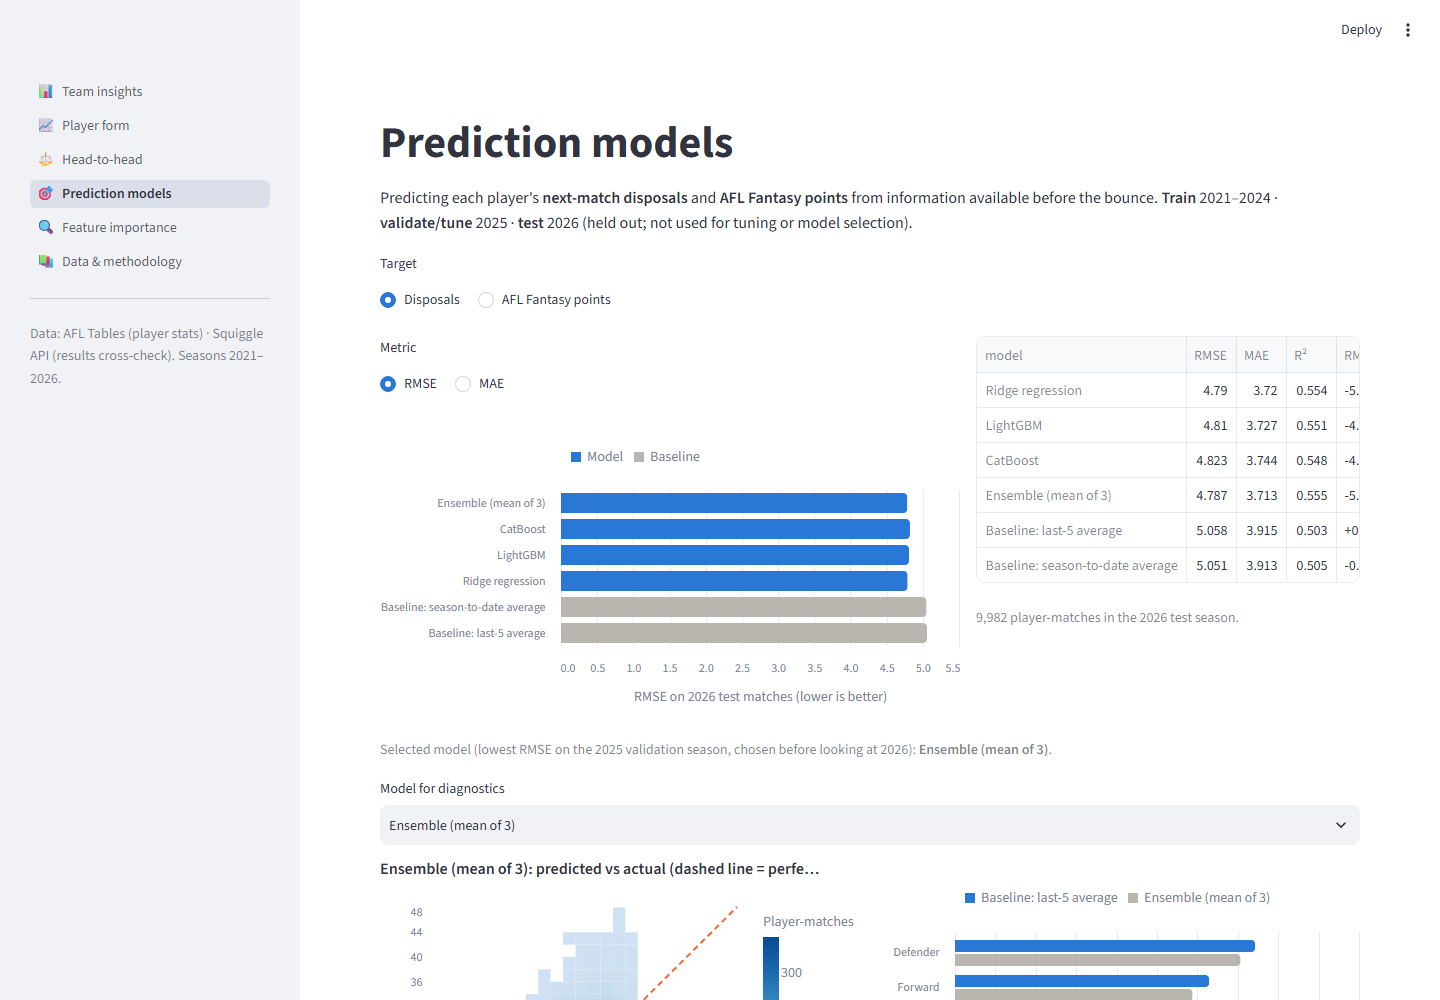
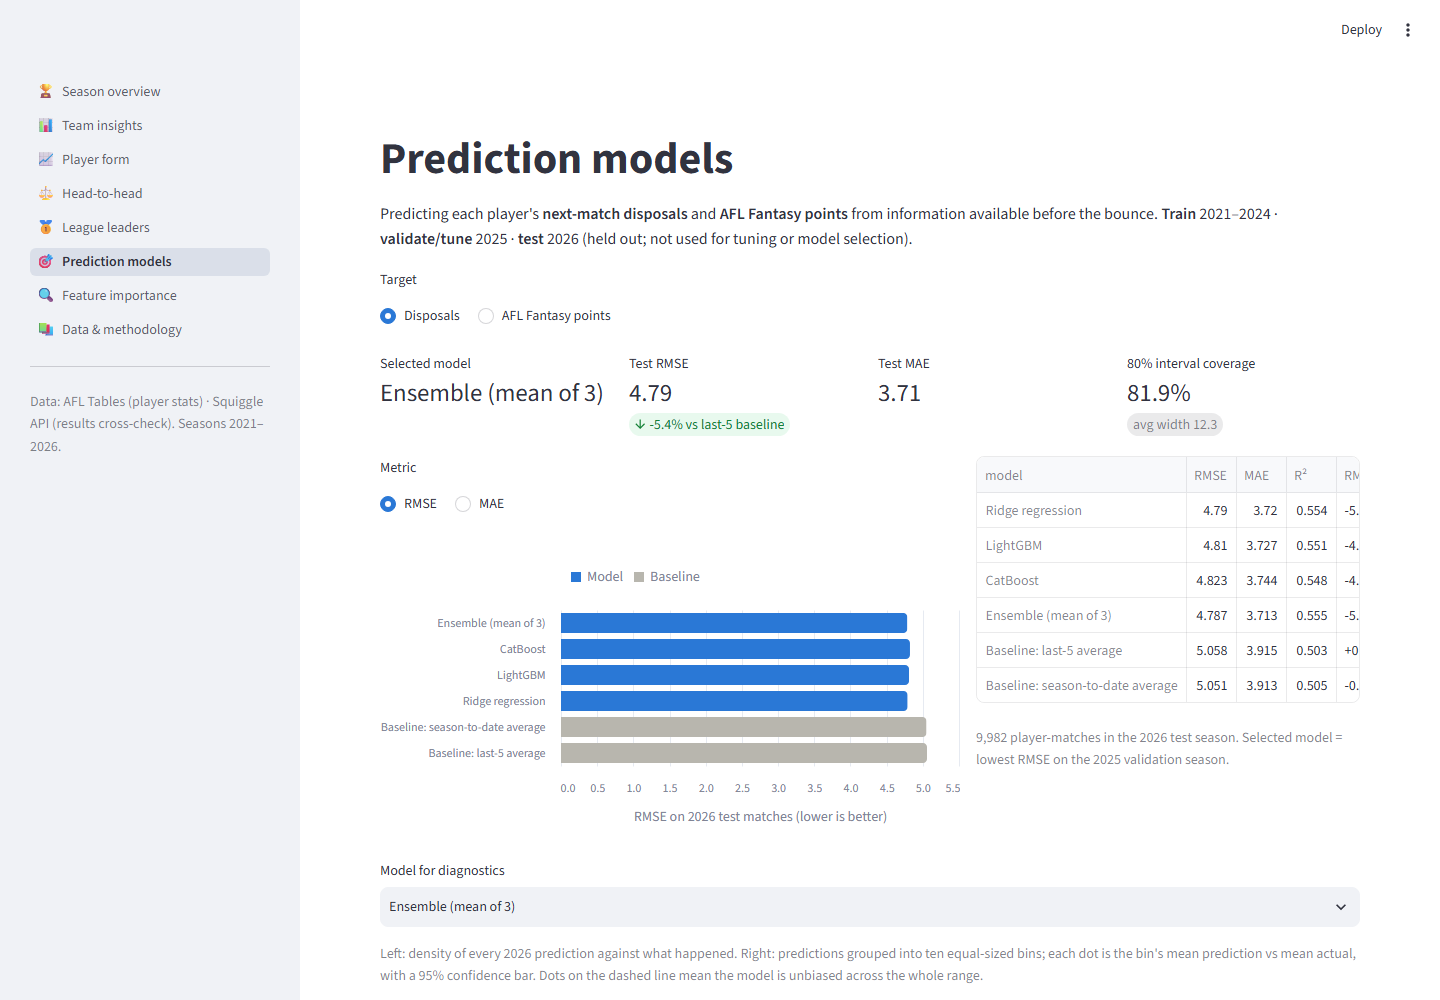
Refresh figures, screenshots and README for the expanded dashboard

diff --git a/scripts/screenshots.py b/scripts/screenshots.py
@@ -5,8 +5,12 @@ from pathlib import Path
 from playwright.sync_api import sync_playwright
 
 OUT = Path(__file__).resolve().parents[1] / "docs" / "screenshots"
-BASE = sys.argv[1] if len(sys.argv) > 1 else "http://localhost:8501"
-PAGES = {"": "teams", "player": "player", "head-to-head": "head_to_head",
+TALL = "--tall" in sys.argv  # review mode: capture whole pages into a separate folder
+args = [a for a in sys.argv[1:] if a != "--tall"]
+BASE = args[0] if args else "http://localhost:8501"
+if TALL:
+    OUT = OUT.parent / "screenshots_full"
+PAGES = {"": "overview", "teams": "teams", "player": "player", "head-to-head": "head_to_head", "leaders": "leaders",
          "models": "models", "importance": "importance", "about": "about"}
 
 
@@ -15,12 +19,12 @@ def main() -> None:
     problems = []
     with sync_playwright() as p:
         browser = p.chromium.launch()
-        page = browser.new_page(viewport={"width": 1440, "height": 1000}, color_scheme="light")
+        page = browser.new_page(viewport={"width": 1440, "height": 4200 if TALL else 1000}, color_scheme="light")
         page.on("console", lambda m: m.type == "error" and problems.append(f"console: {m.text}"))
         for path, name in PAGES.items():
             page.goto(f"{BASE}/{path}")
             page.wait_for_selector("[data-testid='stMainBlockContainer']", timeout=60000)
-            page.wait_for_timeout(7000)
+            page.wait_for_timeout(9000)
             errors = page.locator("[data-testid='stException']").all_inner_texts()
             problems += [f"{path}: {e[:300]}" for e in errors]
             page.screenshot(path=OUT / f"{name}.png", full_page=True)

diff --git a/README.md b/README.md
@@ -4,7 +4,7 @@ An end-to-end data project on **real AFL data, 2021–2026**. It covers polite d
 
 **Live dashboard:** https://afl-player-analytics.streamlit.app/
 
-![Player form page](docs/screenshots/player.png)
+![Season overview page](docs/screenshots/overview.png)
 
 ## The problem
 
@@ -25,6 +25,7 @@ The dashboard also supports the analyst questions around that:
 
 - **Every model beats both naive baselines** (last-5 average and season-to-date average) on both targets. All three models finish close together, which suggests the remaining error is mostly irreducible match-to-match noise rather than missing model capacity.
 - **The gains hold for every inferred role.** The biggest gain is for forwards: disposals MAE 2.94 vs 3.15, fantasy points MAE 16.5 vs 18.1. Gains also hold for established full-match players only: disposals RMSE 4.79 vs 5.07.
+- **The uncertainty estimates are honest.** The 80% prediction intervals, built from 2025 validation residuals, contain **81.9%** of actual 2026 disposal counts and **82.6%** of fantasy scores. Calibration by prediction decile sits on the diagonal.
 - **What matters most** (permutation importance on unseen 2026 data):
   - The 10-match form average dominates.
   - Season-to-date average and career experience come next.
@@ -104,6 +105,7 @@ scrape (AFL Tables, cached) → parse (selectolax → Parquet) → validate (Duc
   - Refit on 2021–2025, then test on 2026.
 - **Baselines:** the player's last-5-match average and season-to-date average.
 - **Metrics:** RMSE, MAE and R². Also broken down by inferred role and for full-match established players.
+- **Prediction intervals:** the 10th–90th percentiles of the selected model's 2025 validation residuals, taken within quintiles of the predicted value so the band widens for high-output players. Coverage is checked on 2026.
 
 More detail: [`docs/methodology.md`](docs/methodology.md).
 
@@ -111,17 +113,19 @@ More detail: [`docs/methodology.md`](docs/methodology.md).
 
 | Page | What it shows |
 |---|---|
-| **Team insights** | Home-and-away ladder computed from results; per-game team stat comparison; territory chart (inside 50s for vs against) |
-| **Player form** | Per-match values with a 5-match rolling average for any stat; season averages; match log; 2026 out-of-sample predictions vs actual |
-| **Head-to-head** | Player vs player: percentile ranks against the league plus form overlay. Team vs team: meetings, wins, average margin. |
-| **Prediction models** | Test RMSE and MAE for all models vs baselines; predicted vs actual (binned density); error by role |
-| **Feature importance** | Permutation importance on the 2026 test set (with spread over 5 repeats), LightGBM gain and CatBoost importance |
+| **Season overview** | Premiers, minor premiers, scoring, biggest win and crowds; an interactive **ladder race** (position after every round); distribution of winning margins; attendance by venue; how scoring, disposals, tackles and contested ball have changed since 2021 |
+| **Team insights** | Computed ladder; per-game team stat comparison; **team style fingerprint** heatmap (13 stats plus concessions, coloured by standard deviations from the league average); match-by-match margins; territory chart (inside 50s for vs against) |
+| **Player form** | Per-match values with a rolling average and the best game annotated; **percentile profile against players in the same inferred role**; splits by opponent, home/away, result and venue; distribution; 2026 predictions with **80% prediction intervals** |
+| **Head-to-head** | Player vs player: league percentiles, form overlay, consistency box plots, every direct meeting. Team vs team: meetings, wins, margin chart. |
+| **League leaders** | Per-game leaderboard for any stat; home-and-away goal and Brownlow-vote leaders; **player landscape scatter** (any two stats) with an inferred role highlighted |
+| **Prediction models** | Test RMSE/MAE vs baselines; predicted-vs-actual density; **calibration by decile**; error across the season; residual distribution; error by role; the biggest over- and under-performances of 2026 |
+| **Feature importance** | Gain share by feature family; permutation importance on the 2026 test set (with a zoom toggle that hides the dominant feature); LightGBM gain and CatBoost importance |
 | **Data & methodology** | Sources, derived quantities, validation summary |
 
 | | |
 |---|---|
-| ![Team insights](docs/screenshots/teams.png) | ![Head-to-head](docs/screenshots/head_to_head.png) |
-| ![Prediction models](docs/screenshots/models.png) | ![Feature importance](docs/screenshots/importance.png) |
+| ![Team insights](docs/screenshots/teams.png) | ![Player form](docs/screenshots/player.png) |
+| ![League leaders](docs/screenshots/leaders.png) | ![Prediction models](docs/screenshots/models.png) |
 
 ## Stack (and why)
 

diff --git a/docs/methodology.md b/docs/methodology.md
@@ -42,3 +42,4 @@ Every rolling feature is computed on matches *before* the one being predicted (`
 - **Model selection:** the model with the lowest RMSE on the 2025 validation season, chosen before the 2026 test season was scored.
 - **Baselines:** the player's last-5-match average, and their season-to-date average. When a player has no history, the baselines fall back to the average debut output in the training data.
 - **Metrics:** RMSE, MAE and R² on the 2026 test matches. Results are also reported by inferred role and for full-match established players.
+- **Prediction intervals (80%):** empirical 10th/90th-percentile residuals of the selected model on 2025, computed within quintiles of the predicted value. Test coverage: 81.9% for disposals, 82.6% for fantasy points.
